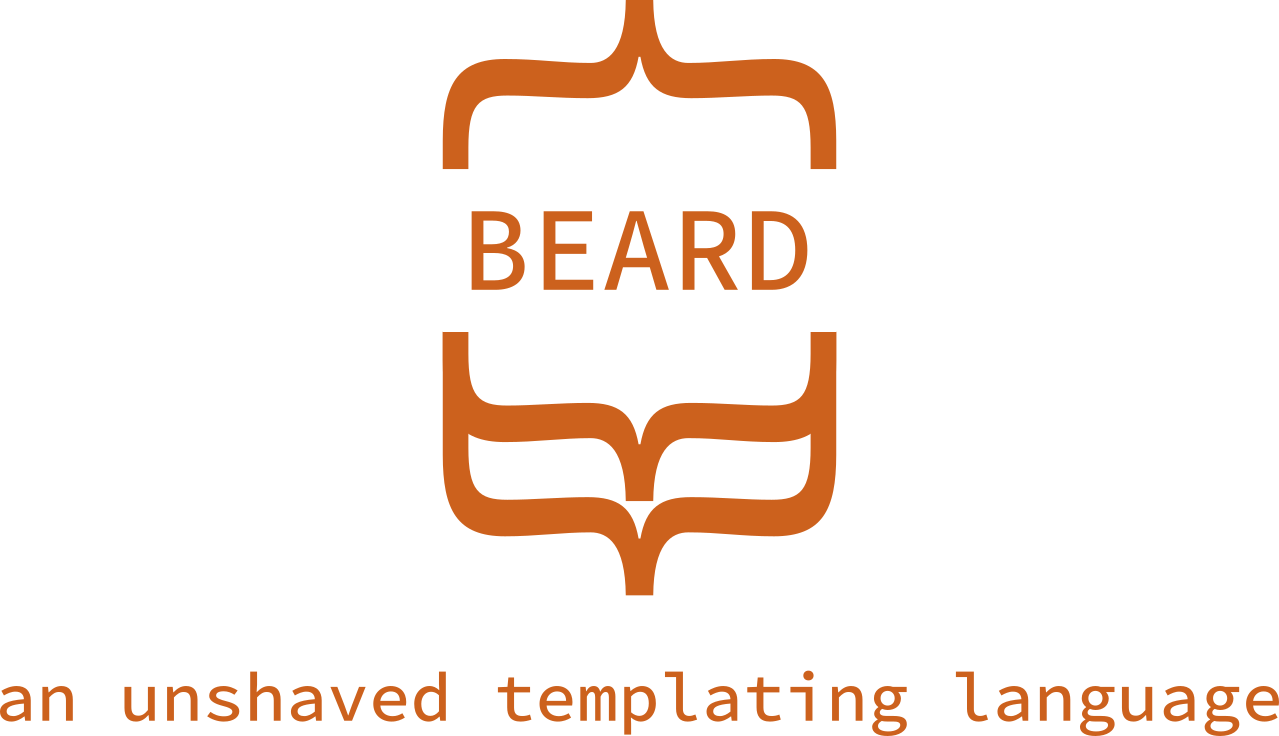
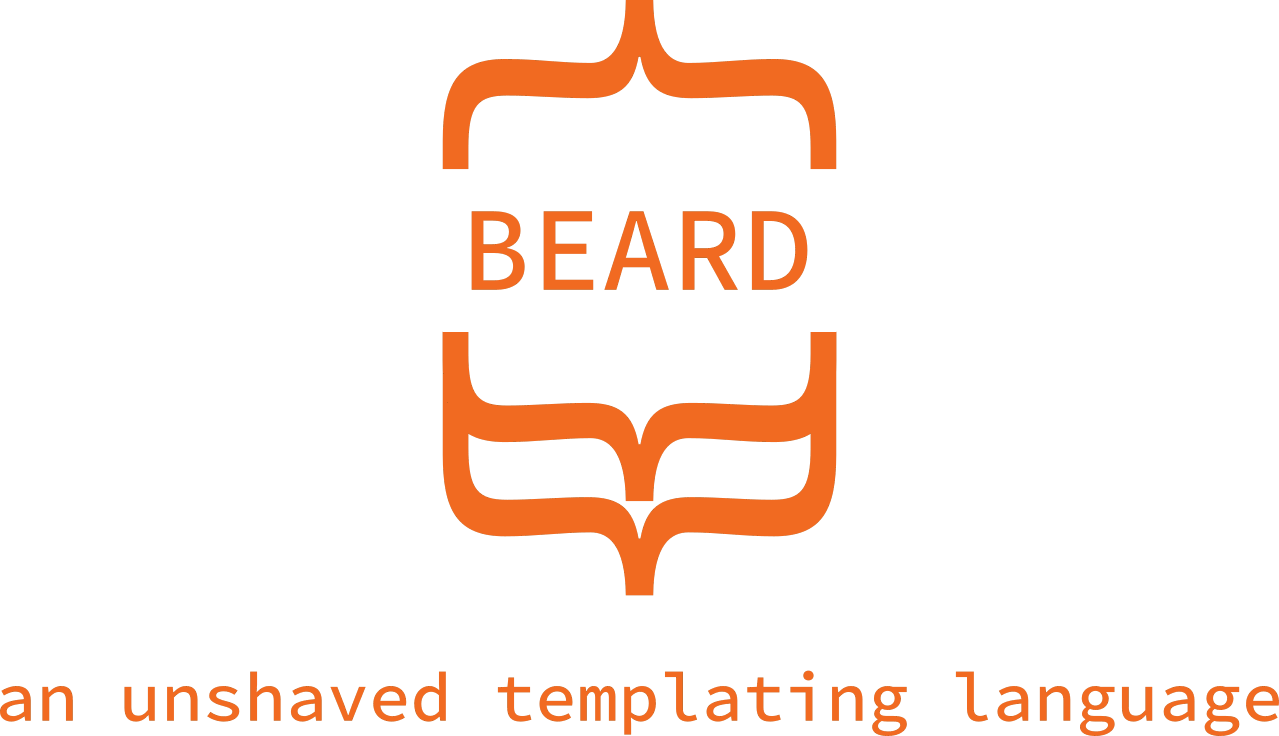
Changes the Beard page to use a color palette clearer than the previous one

diff --git a/css/index.css b/css/index.css
@@ -5,8 +5,13 @@
 
 .nav {
   display: flex;
+  position: fixed;
+  right: 0;
+  left: 0;
 
-  background-color: #cc611d;
+  background-color: #ffffff;
+  border: 0;
+  box-shadow: 0 2px 8px rgba(0,0,0,.15);
 }
 
 .menu {
@@ -23,7 +28,9 @@
 
 .menu__item a {
   text-decoration: none;
-  color: #f7f7f7;
+  color: #333;
+  text-transform: uppercase;
+  font-weight: 600;
 }
 
 .header {
@@ -31,11 +38,11 @@
   align-items: center;
   justify-content: center;
 
-  padding: 2rem 0 2rem 0;
+  padding: 6rem 0 2rem 0;
   width: 100%;
   height: 100%;
 
-  background-color: #4a4a4a;
+  background-color: #e8eaeb;
 }
 
 .logo {
@@ -49,15 +56,22 @@
   width: 100%;
 }
 
-
 .intro {
   padding: 1rem;
 
-  background-color: #f7f7f7;
-  color: #4a4a4a;
+  background-color: #333;
+  color: #aaa;
 }
 
 .intro ul {
   padding: 0 1rem;
   margin: 0;
+}
+
+.intro a {
+  color: #f16a21;
+}
+
+.intro a:visited {
+  color: #cc611d;
 }
